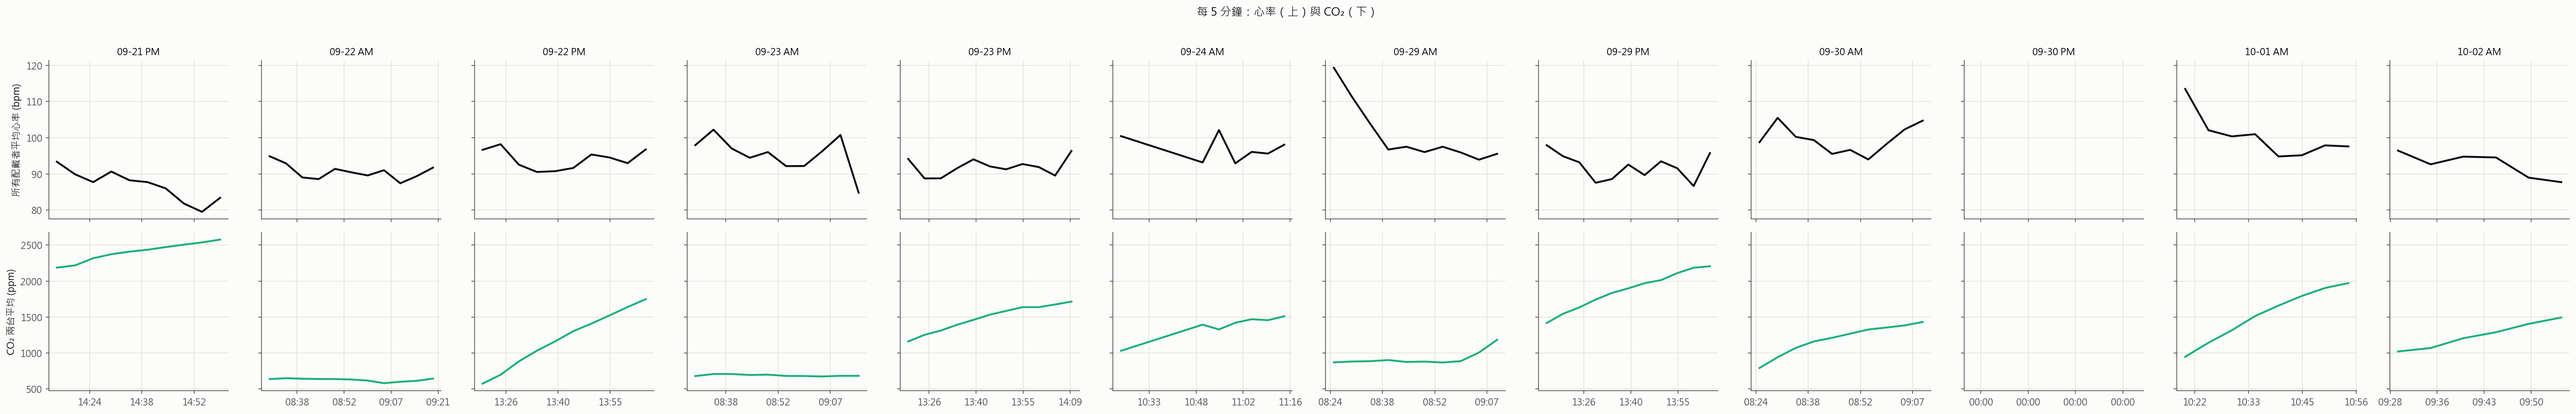
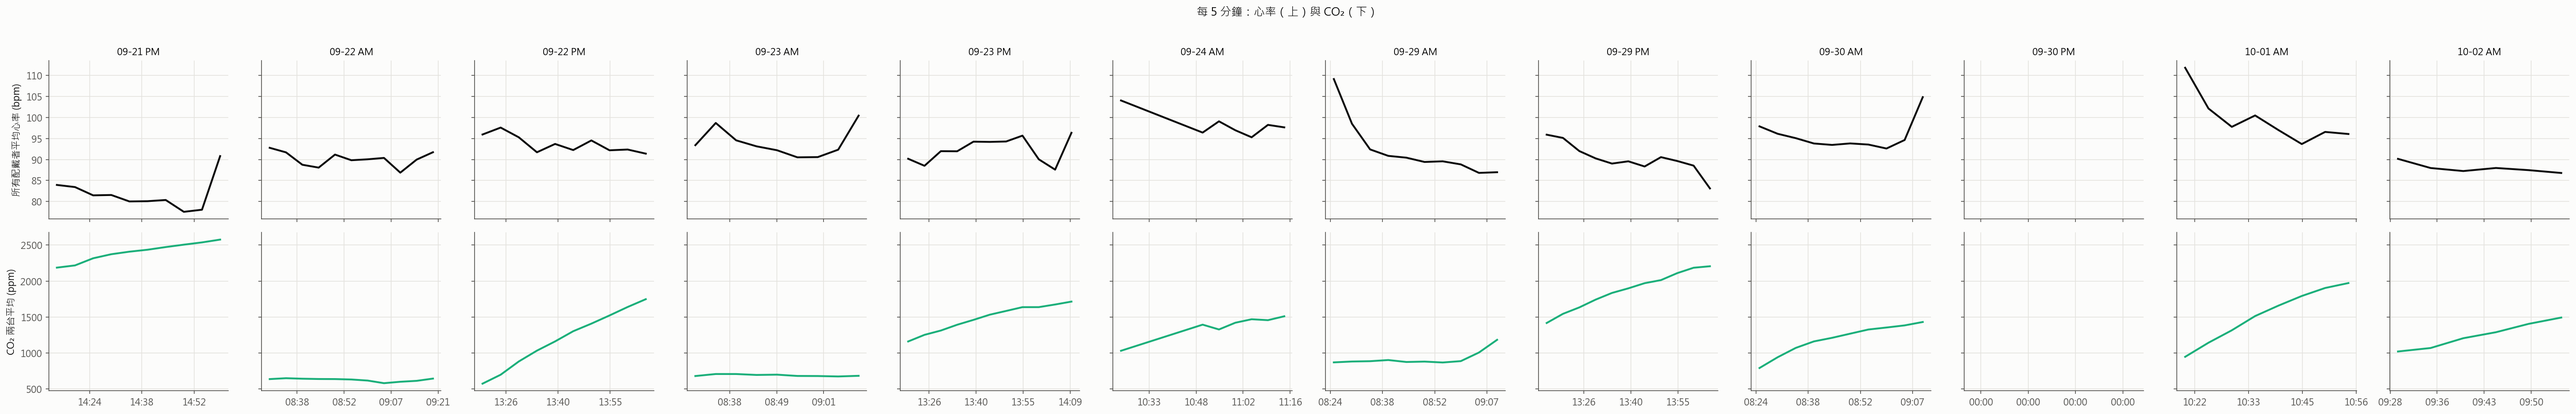
Exclude poor-quality ECG (reprocessed with new quality check); reinterpret all data

diff --git a/src/data.py b/src/data.py
@@ -7,6 +7,7 @@ from __future__ import annotations
 
 import glob
 import os
+import re
 from pathlib import Path
 
 import numpy as np
@@ -181,19 +182,64 @@ def load_patch_letters() -> pd.DataFrame | None:
 
 
 # ---------------------------------------------------------------- 心率
+# 09-29 以前的貼片收錄是用舊版 ecg_process.py 算的（沒有品質檢查），已用新版重算到這裡
+ECG_REPROCESSED = PRIVATE_DIR / "ecg_reprocessed"
+_STAMP = re.compile(r"_(\d{8}_\d{6})")
+
+
+def _ecg_files(prefix: str) -> list[Path]:
+    """同一個 session 若有重算版，就用重算版。"""
+    redo = {_STAMP.search(f.name).group(1): f for f in ECG_REPROCESSED.glob(f"{prefix}_*.csv")}
+    out = list(ECG_REPROCESSED.glob(f"{prefix}_*.csv"))
+    for f in ECG_DIR.glob(f"{prefix}_*.csv"):
+        stamp = _STAMP.search(f.name).group(1)
+        if not any(_STAMP.search(r.name).group(1) == stamp for r in redo.values()):
+            out.append(f)
+    return out
+
+
+def ecg_quality() -> pd.DataFrame:
+    """每顆貼片每節課的品質（新版 ecg_process.py：good / poor / no_signal / error）。"""
+    rows = []
+    for f in _ecg_files("ecg_summary"):
+        d = pd.read_csv(f)
+        stamp = _STAMP.search(f.name).group(1)
+        d["session"] = _session_id(pd.Series(pd.to_datetime(stamp, format="%Y%m%d_%H%M%S"))).iloc[0]
+        d["stamp"] = stamp
+        rows.append(d)
+    q = pd.concat(rows, ignore_index=True)
+    # 同一節課若有兩次收錄（例如 09-30 下午先開了一次空的），有一次 good 就算 good
+    q["is_good"] = q.quality == "good"
+    return q
+
+
+def good_ecg_wearers() -> set[str]:
+    q = ecg_quality()
+    g = q.groupby(["label", "session"]).is_good.any()
+    return {f"{dev} {ses}" for (dev, ses), ok in g.items() if ok}
+
+
 def load_hr_seconds() -> pd.DataFrame:
-    """所有手環與貼片的每秒心率，長格式：time, device, hr。同一秒同一顆出現在多個檔就取平均。"""
-    files = [f for f in glob.glob(str(ECG_DIR / "merged*.csv"))]
+    """每秒心率，長格式：time, device, hr。
+
+    手環取自 merged*.csv；貼片取自 ecghr_*.csv（重算版優先），只保留品質 good 的貼片節次。
+    """
     parts = []
-    for f in files:
+    for f in glob.glob(str(ECG_DIR / "merged*.csv")):
         d = pd.read_csv(f, parse_dates=["time"])
         long = d.melt(id_vars="time", var_name="device", value_name="hr").dropna()
         long["device"] = long.device.str.replace("hr_", "", regex=False)
-        parts.append(long)
+        parts.append(long[~long.device.str.startswith("E")])
+    for f in _ecg_files("ecghr"):
+        d = pd.read_csv(f, parse_dates=["time"]).rename(columns={"hr_ecg": "hr"})
+        d["device"] = f.name.split("_")[1]
+        parts.append(d[["time", "device", "hr"]])
     hr = pd.concat(parts).groupby(["time", "device"], as_index=False).hr.mean()
     hr = hr[hr.hr.between(40, 200)]
     hr["device_type"] = np.where(hr.device.str.startswith("E"), "ecg", "polar")
-    return hr
+    good = good_ecg_wearers()
+    wearer = hr.device + " " + _session_id(hr.time)
+    return hr[(hr.device_type == "polar") | wearer.isin(good)].reset_index(drop=True)
 
 
 def _session_id(t: pd.Series) -> pd.Series:
@@ -216,8 +262,8 @@ def hr_windows(hr: pd.DataFrame, minutes: int = 5, min_cover: float = 0.6) -> pd
 def rmssd_windows(minutes: int = 5, min_good: float = 0.8, min_beats: int = 150) -> pd.DataFrame:
     """心電貼片每 5 分鐘的 RMSSD。只用相鄰兩拍都沒被標記為異常的差值。"""
     rows = []
-    for f in glob.glob(str(ECG_DIR / "ecgrr_*.csv")):
-        dev = Path(f).stem.split("_")[1]
+    for f in _ecg_files("ecgrr"):
+        dev = f.name.split("_")[1]
         d = pd.read_csv(f, parse_dates=["time"])
         if d.empty:
             continue
@@ -236,6 +282,7 @@ def rmssd_windows(minutes: int = 5, min_good: float = 0.8, min_beats: int = 150)
     w = pd.DataFrame(rows).groupby(["device", "win"], as_index=False).mean()
     w["session"] = _session_id(w.win)
     w["wearer"] = w.device + " " + w.session
+    w = w[w.wearer.isin(good_ecg_wearers())]
     w["elapsed_min"] = w.groupby("wearer").win.transform(lambda s: (s - s.min()).dt.total_seconds() / 60)
     return w
 

diff --git a/REPORT.md b/REPORT.md
@@ -1,142 +1,94 @@
-> ⚠ 本報告根據 09-17 ～ 09-23 的資料撰寫。納入 09-24 ～ 10-02 資料後的數值，請見 [FACTS.md](FACTS.md)。
+# 資料解讀：現有資料能不能回答研究問題？（09-17 ～ 10-02）
 
-# 初步資料檢核報告：現有資料能不能回答研究問題？
-
-資料期間：2026-09-17 ～ 09-23
-- Stroop：8 場、12 位學生
-- 自覺疲勞量表：58 份
-- CO₂：兩台感測器 Wa1、Wa2
-- 心率：手環 6 顆、心電貼片 7 顆
-
-重跑方式：`python src/run_analysis.py`。報告中的數字都來自 `results/` 裡的表格。
+數值的完整表格見 [FACTS.md](FACTS.md)。本文件是對這些數值的解讀。
 
 ---
 
-## 一句話結論
+## 先說結論
 
-**自覺疲勞是目前唯一和 CO₂ 對得上的指標**：加入 CO₂ 後，模型 AIC 降低約 4.2–4.4，似然比檢定 p ≈ 0.01。**但這個效應跟「下午」分不開**。Stroop 反應時間則完全看不到 CO₂ 效應。
-
-**Wa1 和 Wa2 哪一台比較貼合模型，兩台給出的答案一樣。座位表也改變不了這個結論，這一點你說得對（見第 2 節）。**
+| 研究問題 | 目前的答案 | 把握程度 |
+|---|---|---|
+| CO₂ 與反應時間 | **沒有關聯**，而且可以排除中等以上的效應 | 高 |
+| CO₂ 與自覺疲勞 | **有正向關聯**，控制上午／下午後效應大小幾乎不變 | 中（p 介於 0.01 與 0.08 之間） |
+| CO₂ 與心率／HRV | **證據互相矛盾**，濾掉假心率之後，逐人模型的效應就消失了 | 低 |
+| 哪一台感測器比較好 | **分不出來**；09-24 起兩台的差距方向反轉，需要先查原因 | — |
 
 ---
 
-## 1. 對照研究問題逐項檢查
+## 1. 心率資料的品質（這次最重要的修正）
 
-| 研究問題 | 目前狀況 | 能回答嗎？ |
+上一版的「逐人心率」結果是 −0.36 bpm／100 ppm（p = 0.02），**這個結果有一部分來自假心率**：
+
+- 用新版 `ecg_process.py` 重算 09-21 ～ 09-29 的原始波形後，67 個「貼片 × 節次」中只有 30 個是 `good`。
+- 最嚴重的例子是 E2512-05 在 09-29 上午：94.7% 的心跳被標為異常，算出的心率是 141–158 bpm。那節課有學生戴著它，它的數值也進了上一版的逐人模型。
+- 新版程式只會讓「完全沒訊號」的不輸出心率；`poor` 的貼片仍然會產生 `ecghr` 檔。所以分析端必須自己排除，現在 `src/data.py` 已經改成只用 `good` 的資料。
+
+濾掉之後：
+
+| 模型 | 濾前 | 濾後 |
 |---|---|---|
-| (一) CO₂ 與反應時間 | 44 人次（12 人、5 場），CO₂ 效應 ≈ 0 | 目前看不到效應 |
-| (一) CO₂ 與自覺疲勞 | 38 份（11 人），CO₂ 每升高 100 ppm，疲勞 +0.067 分 | **有訊號**，但跟上午／下午分不開 |
-| (一) CO₂ 與心率／HRV | 心率 424 個 5 分鐘窗；HRV 94 窗 | 有趨勢，但跟「上課經過時間」分不開 |
-| (二) LMM 預測模型 | 模型可以跑。人數與課程類型固定，不需要放進模型；睡眠已納入 | 可以，但暴露變異不足 |
-| (三) 通風建議 | CO₂ 累積速度與開冷氣的關係很清楚（見第 4 節） | 描述性的部分可以 |
+| 逐人心率（控制上課經過時間） | −0.36 bpm，p = 0.020 | **+0.10 bpm，p = 0.41** |
+| 裝置×節次心率（控制時間） | −0.19，p = 0.23 | −0.29，p = 0.03 |
+| 逐人 HRV | 6 人，p = 0.002 | **4 人**，p = 0.008 |
 
-## 2. 哪一台比較好？座位表有沒有用？
+**解讀：**
+- 心率的兩種模型方向不一致。逐人模型只涵蓋 09-24 之後、10 位學生；裝置×節次模型涵蓋全部節次、但無法辨識是誰。兩者用的樣本不同，所以目前沒辦法說 CO₂ 會改變心率。
+- 逐人 HRV 只剩 4 個人，係數再顯著也不能拿來下結論。
+- 貼片穩定度是硬體問題，不是統計問題。E2605-02、E2605-05 大多是 `poor`（分別是 13 次中 3 次、10 次中 1 次 `good`）；E2603-10（13 次中 11 次）、E2605-04（4 次全部）大多是 `good`。
+- 手環資料我檢查過：每節平均 68–120 bpm、同一數值最長只連續 33 秒，沒有看到假值的跡象。但光學式手環無法用同樣的方式驗證。
 
-### 兩台感測器
-- 兩台的相關係數 r = 0.995。Wa1 平均比 Wa2 低 58 ppm，95% 一致界限為 −192 ～ +77 ppm。
-- 在 1500 ppm 時，SCD30 本身的規格誤差是 ±75 ppm。所以 **58 ppm 的差距落在感測器誤差範圍內**，無法斷定是位置造成的。
-- 在所有結果變項中，Wa1 和 Wa2 的 AIC 差距都 < 0.4。以自覺疲勞為例：Wa1 −4.17、Wa2 −4.43、兩台平均 −4.26。一般要差到 2 以上才算一個模型比另一個好。
+## 2. CO₂ 與 Stroop：沒有效應
 
-### 座位表：你是對的
-我上一版建議要座位表，**這個建議是錯的**。以下用兩種方法直接檢驗（`src/seating_test.py`）：
+- 共 82 人次、12 人。CO₂ 每升高 100 ppm，反應時間改變 −0.21 ms，95% CI −2.3 ～ +1.9。
+- 換算一下：**即使 CO₂ 從 600 ppm 升到 2500 ppm，反應時間的變化也不太可能超過 ±40 ms**。在目前的樣本下，這已經是相當窄的範圍。
+- 干擾分數 +2.7 ms／100 ppm（p = 0.09），方向與文獻一致，但不顯著。正確率沒有變化。
+- 練習效應：第 1 次 842 ms，09-23 之後穩定在 567–597 ms。模型已經控制「第幾次施測」。
 
-**方法一：窮舉所有座位安排。** 把每位學生指派給 Wa1 或 Wa2，12 人共 2¹² = 4096 種安排，全部重跑 LMM（`results/seating_exhaustive.csv`）：
+**對研究的意義：** 在這個教室、這個濃度範圍（約 580 ～ 2600 ppm）內，40 秒的 Stroop 測驗對 CO₂ 不敏感。這個「沒有效應」本身是一個可以報告的結果，不代表研究失敗。
 
-| | 反應時間（4096 種） | 自覺疲勞（2048 種） |
-|---|---|---|
-| CO₂ 係數範圍 | −0.43 ～ −0.20 ms（兩台平均：−0.32） | 0.064 ～ 0.070（兩台平均：0.067） |
-| 最好的座位安排 vs 兩台平均 | ΔAIC −0.04 | ΔAIC −0.54 |
-| 個人暴露量與兩台平均的相關 | ≥ 0.998 | ≥ 0.999 |
+## 3. CO₂ 與自覺疲勞：目前最有希望的指標
 
-換句話說，**不管學生坐哪裡，結論都一樣**。
+- CO₂ 每升高 100 ppm，疲勞增加 **+0.063 分**（1–7 分量表，p = 0.009）。這已經控制了睡眠時數、睡眠品質和填寫次數；也就是每升高 1000 ppm 大約多 0.6 分。
+- 負對照：FSS 問的是「過去 24 小時」，它跟填寫當下的 CO₂ 無關（p = 0.62）。這支持「疲勞上升不是填答習慣造成的」。
+- **這次的關鍵進展是加入上午／下午之後，效應大小幾乎沒變**（0.072，p = 0.083）。上一版加入上午／下午後效應就消失，原因是當時 CO₂ 和上午／下午的相關高達 0.93；這次加入了 09-24、09-30、10-01、10-02 這幾個「上午開冷氣」的節次，相關降到 0.76，CO₂ 的效應才有機會和時段分開。p 值變大是因為兩者仍然相關、標準誤變寬，不是效應變小。
+- **反例**：10-01 上午 Wa1 測到 2335 ppm，是所有上午最高的，疲勞卻只有 3.38 分。如果把只有 Wa1 的節次（09-21 上午、10-01 上午）也納入，效應會降到 0.015（p = 0.55）。所以這個結果對少數節次很敏感。
+- 有一位學生 7 份問卷的注意力檢核全部沒通過，這些問卷已全部排除。
 
-**方法二：假設座位真的有影響。** 模擬時假設「學生吸到的就是最近那台的濃度」，而且 CO₂ 真的有效應。在這個條件下，用正確座位表建模贏過兩台平均（ΔAIC > 2）的比例如下（`results/figures/seating_simulation.png`）：
-- 反應時間：真實效應 0、5、10 ms / 100 ppm 時是 0%；效應大到 20 ms / 100 ppm（1000 ppm 就差 200 ms，不太可能）時也只有 7.5%。
-- 自覺疲勞：最大只有 12%。
-- 相對地，**不用座位表、直接用兩台平均，就能在 88–100% 的模擬中測到效應**。
+## 4. 兩台感測器：差距在 09-24 反轉了
 
-**為什麼座位表沒用？**
-1. 兩台之間的差距（每節平均 0–90 ppm），比節次之間的差距（600 → 2600 ppm）小了一個數量級。
-2. 學生座位固定時，「坐在哪台旁邊」對同一個人來說是固定的偏移，會被模型裡的個人隨機截距完全吸收。
-3. 開冷氣、關窗的教室，空氣混合得很均勻（09-23 下午兩台幾乎重疊）。
+| 期間 | Wa1 − Wa2 |
+|---|---|
+| 09-21 ～ 09-23 | −90 ～ +2 ppm（Wa1 較低） |
+| 09-24 ～ 10-02 | +62 ～ +216 ppm（Wa1 較高） |
 
-**什麼情況下座位表才有用？** 當教室內真的有濃度梯度時才有用，例如只開一側的窗戶、有人站在門口、空氣從走廊灌進來。目前你的教室不是這種情況。
+- 差距的方向在 09-23 與 09-24 之間突然改變，而且 09-24 之後的差距（最大 +216 ppm）已經超過 SCD30 的規格誤差（1500 ppm 時約 ±75 ppm）。
+- 從資料看，這比較像是某一台**換了位置**，或是**校正值改變了**。SCD30 預設會自動校正，它假設每天都會接觸到約 400 ppm 的新鮮空氣；長時間待在密閉教室裡可能讓讀值漂移。
+- 不論原因，模型對 Wa1 或 Wa2 都沒有一致的偏好：疲勞模型 Wa1 略好，心率模型 Wa2 略好，差距都不到 2 AIC。
+- **建議：**
+  1. 確認 09-24 前後有沒有移動過任一台。
+  2. 把兩台並排放 30 分鐘，比對讀值。
+  3. 檢查韌體中自動校正（ASC）是否開著。
 
-**建議：以「兩台平均」當作教室濃度。**「兩台讀值高度一致，代表教室空氣混合均勻，法規單點量測就足夠」本身就可以寫成一項研究結果。
+  在原因查清之前，繼續用兩台平均。
 
-## 3. CO₂ 和各項結果
+## 5. 座位表
 
-### 自覺疲勞：有訊號（`figures/fatigue_vs_co2.png`）
-- 模型：`疲勞 ~ CO₂ + 第幾次填寫 + 睡眠時數 + 睡眠品質 + (1|學生)`。CO₂ 每升高 100 ppm，疲勞增加 **+0.067 分**（1–7 分量表），相當於每升高 1000 ppm 增加約 0.7 分。
-  - 似然比檢定 p = 0.011–0.013。Wald 檢定 p ≈ 0.08–0.11，比較不穩，原因是個人隨機截距的變異估計在 0 的邊界上。
-  - 留一受試者交叉驗證的 RMSE 從 1.474 降到 1.42，表示加入 CO₂ 後模型對「沒看過的學生」也預測得比較準。
-- **負對照通過**：FSS 問的是「過去 24 小時」，照理不該受填寫當下的 CO₂ 影響。結果 CO₂ 係數確實是 0.000（p = 0.96）。這表示疲勞的訊號不是「填答習慣」造成的。
-- **但是加入上午／下午之後，CO₂ 效應就消失了**（−0.07，p = 0.2）。各場次的平均疲勞分數：
+- 兩台的差距變大以後（個人暴露量最多差 188 ppm），模擬顯示只有在效應很大時，座位表才會有幫助。例如反應時間每 100 ppm 慢 20 ms 時，79.5% 的模擬中座位表會勝出。
+- 但實際觀察到的反應時間效應接近 0，而且這個差距本身可能是校正問題，不是真的濃度差。**座位表仍然不需要。**
 
-| | CO₂ (ppm) | 疲勞平均 |
-|---|---|---|
-| 下午 | 1660 / 1800 / 2600 | 3.7 / 4.3 / 5.1 |
-| 上午 | 590 / 640 / **1970** | 3.0 / 3.5 / **3.6** |
+## 6. 中介路徑（CO₂ → 心率 → 反應時間）
 
-  下午的三場有劑量反應的樣子（CO₂ 越高越疲勞）。但 09-21 上午是唯一「上午但 CO₂ 高」的場次，當時疲勞只有 3.6，比較像其他上午的場次。所以目前的資料**比較支持「下午比較累」，而不是「CO₂ 高比較累」**，但只靠一場沒辦法下定論。
-- 資料清理：注意力檢核題（要求勾選「非常不同意」）答錯的 3 份問卷已排除，其中 1 份全部勾 7 分。
+只有 22 人次同時有可信的施測前心率和兩台 CO₂。兩段路徑都不顯著：CO₂ → 心率 p = 0.30；心率加入後，CO₂ 對反應時間的係數仍接近 0。以目前的資料，**無法檢驗 Gong et al. (2026) 提出的路徑**。
 
-### Stroop：沒有效應
-- CO₂ 每升高 100 ppm，反應時間改變 −0.3 ms（95% CI −3.3 ～ +2.6）。加入睡眠控制後結果相同（−0.6 ms），單題層級的干擾交互作用也不顯著（p ≈ 0.5）。
-- **修正上一版的說法**：這不是「樣本太小所以測不到」。模擬顯示，如果真實效應有 5 ms / 100 ppm，目前的資料有 88% 的機會測到。信賴區間已經排除「每 1000 ppm 慢 26 ms 以上」的效應。前提是 CO₂ 沒有跟其他因素混在一起，但實際上它和上午／下午混在一起（r = 0.93）。
-- 練習效應很大：第 1 次平均 842 ms，第 7 次 567 ms。模型已經控制「第幾次施測」。
-- 正確率接近 100%（天花板效應），沒有鑑別力。
+## 7. 研究倫理（再次提醒）
 
-### 心率／HRV
-- 沒控制時間時，CO₂ 每升高 100 ppm，心率 −0.34 bpm（p = 0.04）；控制上課經過時間後，變成 −0.14 bpm（p = 0.47）。
-- HRV 的 log(RMSSD) 每 100 ppm +0.02（p ≈ 0.09）。方向和文獻一致，但沒有達到顯著。
-- **貼片對照還差一步**：你提供的表只寫到 A–F，沒有寫 A 是哪一顆貼片（例如 E2512-03）。我試過用「同一位學生跨節次的心率應該相近」去反推對照，但照編號排序的對照，一致性只落在隨機對照的中位數，**從資料推不出來**。另外，沒有編號的 P 是隨機發放的手環，所以手環資料沒辦法連到個人。
-- 請把字母對應的貼片編號填進 `data/private/patch_letters_TEMPLATE.csv`，另存成 `patch_letters.csv`，再重跑一次。程式會自動做兩件事：
-  - 逐人的心率模型；
-  - 「CO₂ → 施測前心率 → 反應時間」的中介檢驗（計畫書中 Gong et al. 的路徑）。
-
-## 4. 通風：開冷氣就是關鍵
-
-你說「超過 2000 ppm 的時候就是有開冷氣，沒開冷氣大概不會超過 1000 ppm」，資料完全吻合：
-
-| 場次 | CO₂ 平均（Wa1 / Wa2） | 最高值 | 超過 1000 ppm 的時間比例 |
-|---|---|---|---|
-| 09-22 上午 | 585 / 674 | 1189 / 797 | ~0% |
-| 09-23 上午 | 650 / 729 | 733 / 1050 | ~0% |
-| 09-22 下午 | 1134 / 1212 | 1786 / 1888 | 61–66% |
-| 09-23 下午 | 1415 / 1412 | 1747 / 1737 | 98–100% |
-| 09-21 下午 | 2323 / 2343 | 2823 / 2705 | 100% |
-
-- 關窗開冷氣時，CO₂ 大約**每分鐘上升 27 ppm**（09-22 下午）。從 650 ppm 升到 1000 ppm 大約只要 13 分鐘。
-- 所以「開冷氣 ≈ 關窗 ≈ CO₂ 高 ≈ 通常是下午」這幾件事目前是綁在一起的。對研究問題三來說，這其實就是答案的核心：**開冷氣的節次需要機械換氣，或每隔一段時間短暫開窗**。
-- 開窗紀錄不用逐扇窗戶記。每節課只要記「冷氣開啟的時間」一個數字就夠了，CO₂ 曲線的斜率本身就能反映通風狀況。
-
-## 5. 研究倫理：2000 ppm 條款
-
-你說明了沒開窗的原因（要開冷氣，不可能全開窗）。這個理由在現場是合理的。不過計畫書「計畫暫停或終止條件」寫的是：**達 2,000 ppm 時「立即中止當次測驗程序」並協助開窗通風**。09-21 上午和下午的 Stroop 都是在約 2000–2600 ppm 下施測的，這在程序上仍然是**偏離核定計畫**。
-
-另外，這個條款跟計畫書中「純自然觀察、研究團隊完全不介入門窗」的設計本身就互相衝突。從資料看，開冷氣的下午很可能經常超過 2000 ppm。
-
-建議和指導老師討論以下三件事：
-1. 這兩場是否需要向 REC 通報偏離。
-2. 提出變更案，把條款改成做得到的版本。例如：「達 2000 ppm 時暫停測驗，並提醒教師短暫開門或開窗 X 分鐘」，或是直接「不在 2000 ppm 以上施測」。
-3. 在變更核准前，09-21 這兩場資料能不能用。
-
-## 6. 下一步
-
-1. **提供貼片字母 → 編號的對照**，讓逐人生理分析和中介分析可以跑。
-2. **打破「CO₂ 高 = 下午」的綁定**。這是現在最關鍵的一步。需要「上午開冷氣」或「下午開窗不開冷氣」的節次，哪怕只有 2–3 場，都能直接檢驗疲勞到底是跟著 CO₂ 還是跟著時段。
-3. 每節課記下冷氣開啟的時間。
-4. 不需要：座位表（見第 2 節）、課程類型與人數（全部相同，無法、也不需要放進模型）。
+09-29 下午（約 2100–2230 ppm）和 10-01 上午（Wa1 約 2335 ppm）的 Stroop 也是在 2000 ppm 以上施測的。現在共有 4 個節次超過計畫書的中止門檻。建議在下一次和指導老師討論時，一併處理這件事（是否通報、是否提出變更案）。
 
 ---
 
-## 附：方法摘要
-- **CO₂ 對齊**
-  - Stroop：測驗區間（約 40 秒）前後各延伸 60 秒，取區間內感測器讀值的平均。
-  - 疲勞量表：表單 Timestamp 往前 3 分鐘（依計畫書）。學生自填的「幾點幾分」有 AM/PM 填錯的情形，所以不採用。
-- **Stroop 指標**：反應時間只用答對、且在 200–3000 ms 之間的題目；干擾分數 = 不一致題平均 − 中性題平均。
-- **LMM**：用 ML 估計，隨機截距為學生（心率則為「裝置 × 節次」）。每個結果變項都在同一批資料列上，分別以 Wa1、Wa2、兩台平均各跑一次。
-- **驗證**：留一受試者交叉驗證（LOSO）、重複 5 折交叉驗證、Nakagawa 邊際／條件 R²。
-- **HRV**：每 5 分鐘計算 RMSSD，只用相鄰兩拍都正常的差值；異常拍比例需 < 20%。
-- 5 分鐘窗之間有自我相關，心率模型的 p 值應保守解讀。
+## 下一步建議（依優先順序）
+
+1. **查清楚 09-24 兩台差距反轉的原因**（移動、校正、ASC）。
+2. **貼片**：E2605-02、E2605-05 換新或停用；每次收錄結束後看 `ecg_summary` 的 `quality` 欄，`poor` 的當場重貼。
+3. **疲勞**：繼續收集「上午 CO₂ 高」和「下午 CO₂ 低」的節次，看 0.06–0.07 分／100 ppm 的效應能不能在更多資料中站得住。
+4. **Stroop**：維持現在的做法即可。若想提高敏感度，可以考慮更長或更難的版本，但這需要提出計畫變更。

diff --git a/FACTS.md b/FACTS.md
@@ -84,15 +84,16 @@ CO₂、溫度取自 Stroop 施測區間（前後各 60 秒）；疲勞為排除
 | 自覺疲勞 | 69（11） | 0.064 / 0.061 / 0.063 | 平均：0.016 ～ 0.110 | 0.007 / 0.012 / 0.009 | −4.7 / −3.9 / −4.3 |
 | 自覺疲勞，加入上午／下午 | 69（11） | 0.072 / 0.069 / 0.072 | 平均：−0.009 ～ 0.153 | 0.065 / 0.115 / 0.083 | −1.3 / −0.4 / −0.9 |
 | FSS（過去 24 小時） | 69（11） | −0.004（三者相同） | | 0.63 / 0.61 / 0.62 | +1.8 / +1.7 / +1.8 |
-| 心率，未控制時間（裝置×節次） | 928 窗（120） | −0.52 / −0.57 / −0.55 | 平均：−0.79 ～ −0.31 | < 0.001 | −15.7 / −20.5 / −18.3 |
-| 心率，控制上課經過時間（裝置×節次） | 928 窗（120） | −0.14 / −0.24 / −0.19 | 平均：−0.51 ～ 0.12 | 0.37 / 0.14 / 0.23 | +1.2 / −0.1 / +0.6 |
-| 心率，逐人，控制上課經過時間 | 504 窗（12） | −0.32 / −0.39 / −0.36 | 平均：−0.66 ～ −0.06 | 0.036 / 0.011 / 0.020 | −2.4 / −4.4 / −3.4 |
-| HRV log(RMSSD)，控制時間（裝置×節次） | 231 窗（41） | 0.022 / 0.030 / 0.027 | 平均：0.003 ～ 0.050 | 0.061 / 0.012 / 0.026 | −1.4 / −4.1 / −2.8 |
-| HRV log(RMSSD)，逐人，控制時間 | 137 窗（6） | 0.040 / 0.043 / 0.042 | 平均：0.016 ～ 0.068 | 0.003 / 0.001 / 0.002 | −6.7 / −7.8 / −7.4 |
-| 反應時間，加入施測前 10 分鐘心率 | 32（11） | −0.17 / 0.02 / −0.06 | | 0.95 / 0.99 / 0.98 | +2.0 |
-| 施測前心率 ~ CO₂（兩台平均） | 32（11） | −0.36 bpm | −1.92 ～ 1.20 | 0.65 | |
+| 心率，未控制時間（裝置×節次） | 693 窗（89） | −0.55 / −0.57 / −0.57 | 平均：−0.76 ～ −0.38 | < 0.001 | −27.9 / −32.0 / −30.4 |
+| 心率，控制上課經過時間（裝置×節次） | 693 窗（89） | −0.26 / −0.30 / −0.29 | 平均：−0.55 ～ −0.03 | 0.050 / 0.020 / 0.030 | −1.8 / −3.4 / −2.7 |
+| 心率，逐人，控制上課經過時間 | 372 窗（10） | 0.14 / 0.06 / 0.10 | 平均：−0.14 ～ 0.34 | 0.25 / 0.62 / 0.41 | +0.7 / +1.8 / +1.3 |
+| HRV log(RMSSD)，控制時間（裝置×節次） | 174 窗（25） | 0.014 / 0.024 / 0.020 | 平均：−0.009 ～ 0.050 | 0.34 / 0.10 / 0.18 | +1.1 / −0.7 / +0.2 |
+| HRV log(RMSSD)，逐人，控制時間 | 114 窗（4） | 0.038 / 0.043 / 0.041 | 平均：0.011 ～ 0.071 | 0.014 / 0.005 / 0.008 | −3.8 / −5.6 / −4.8 |
+| 反應時間，加入施測前 10 分鐘心率 | 22（9） | 0.31 / 0.44 / 0.39 | | 0.93 / 0.89 / 0.91 | +2.0 |
+| 施測前心率 ~ CO₂（兩台平均） | 22（9） | +0.43 bpm | −0.38 ～ 1.24 | 0.30 | |
 
 - 逐人生理模型只使用研究代碼對照表上寫有裝置編號的節次（09-24 起），且限兩台感測器都有資料的 5 分鐘窗。09-21 ～ 09-23 的字母代號與隨機手環 P 沒有納入。
+- 貼片心率與 HRV 只使用新版 `ecg_process.py`（2d1b3f0）判定為 `good` 的「貼片 × 節次」：67 個中 30 個（另有 09-30 下午一次空收錄的 6 個 `error`）。09-21 ～ 09-29 的收錄已用新版重新處理。手環沒有品質欄位，全部使用。
 - 所有心率／HRV 模型都只使用兩台感測器都有資料的 5 分鐘窗。
 - 在兩台都有資料的人次中，CO₂ 與上午／下午的相關 r = 0.756（Wa1）。CO₂ 與「第幾次施測」的相關為 0.162（Wa1）、0.032（Wa2）。
 
